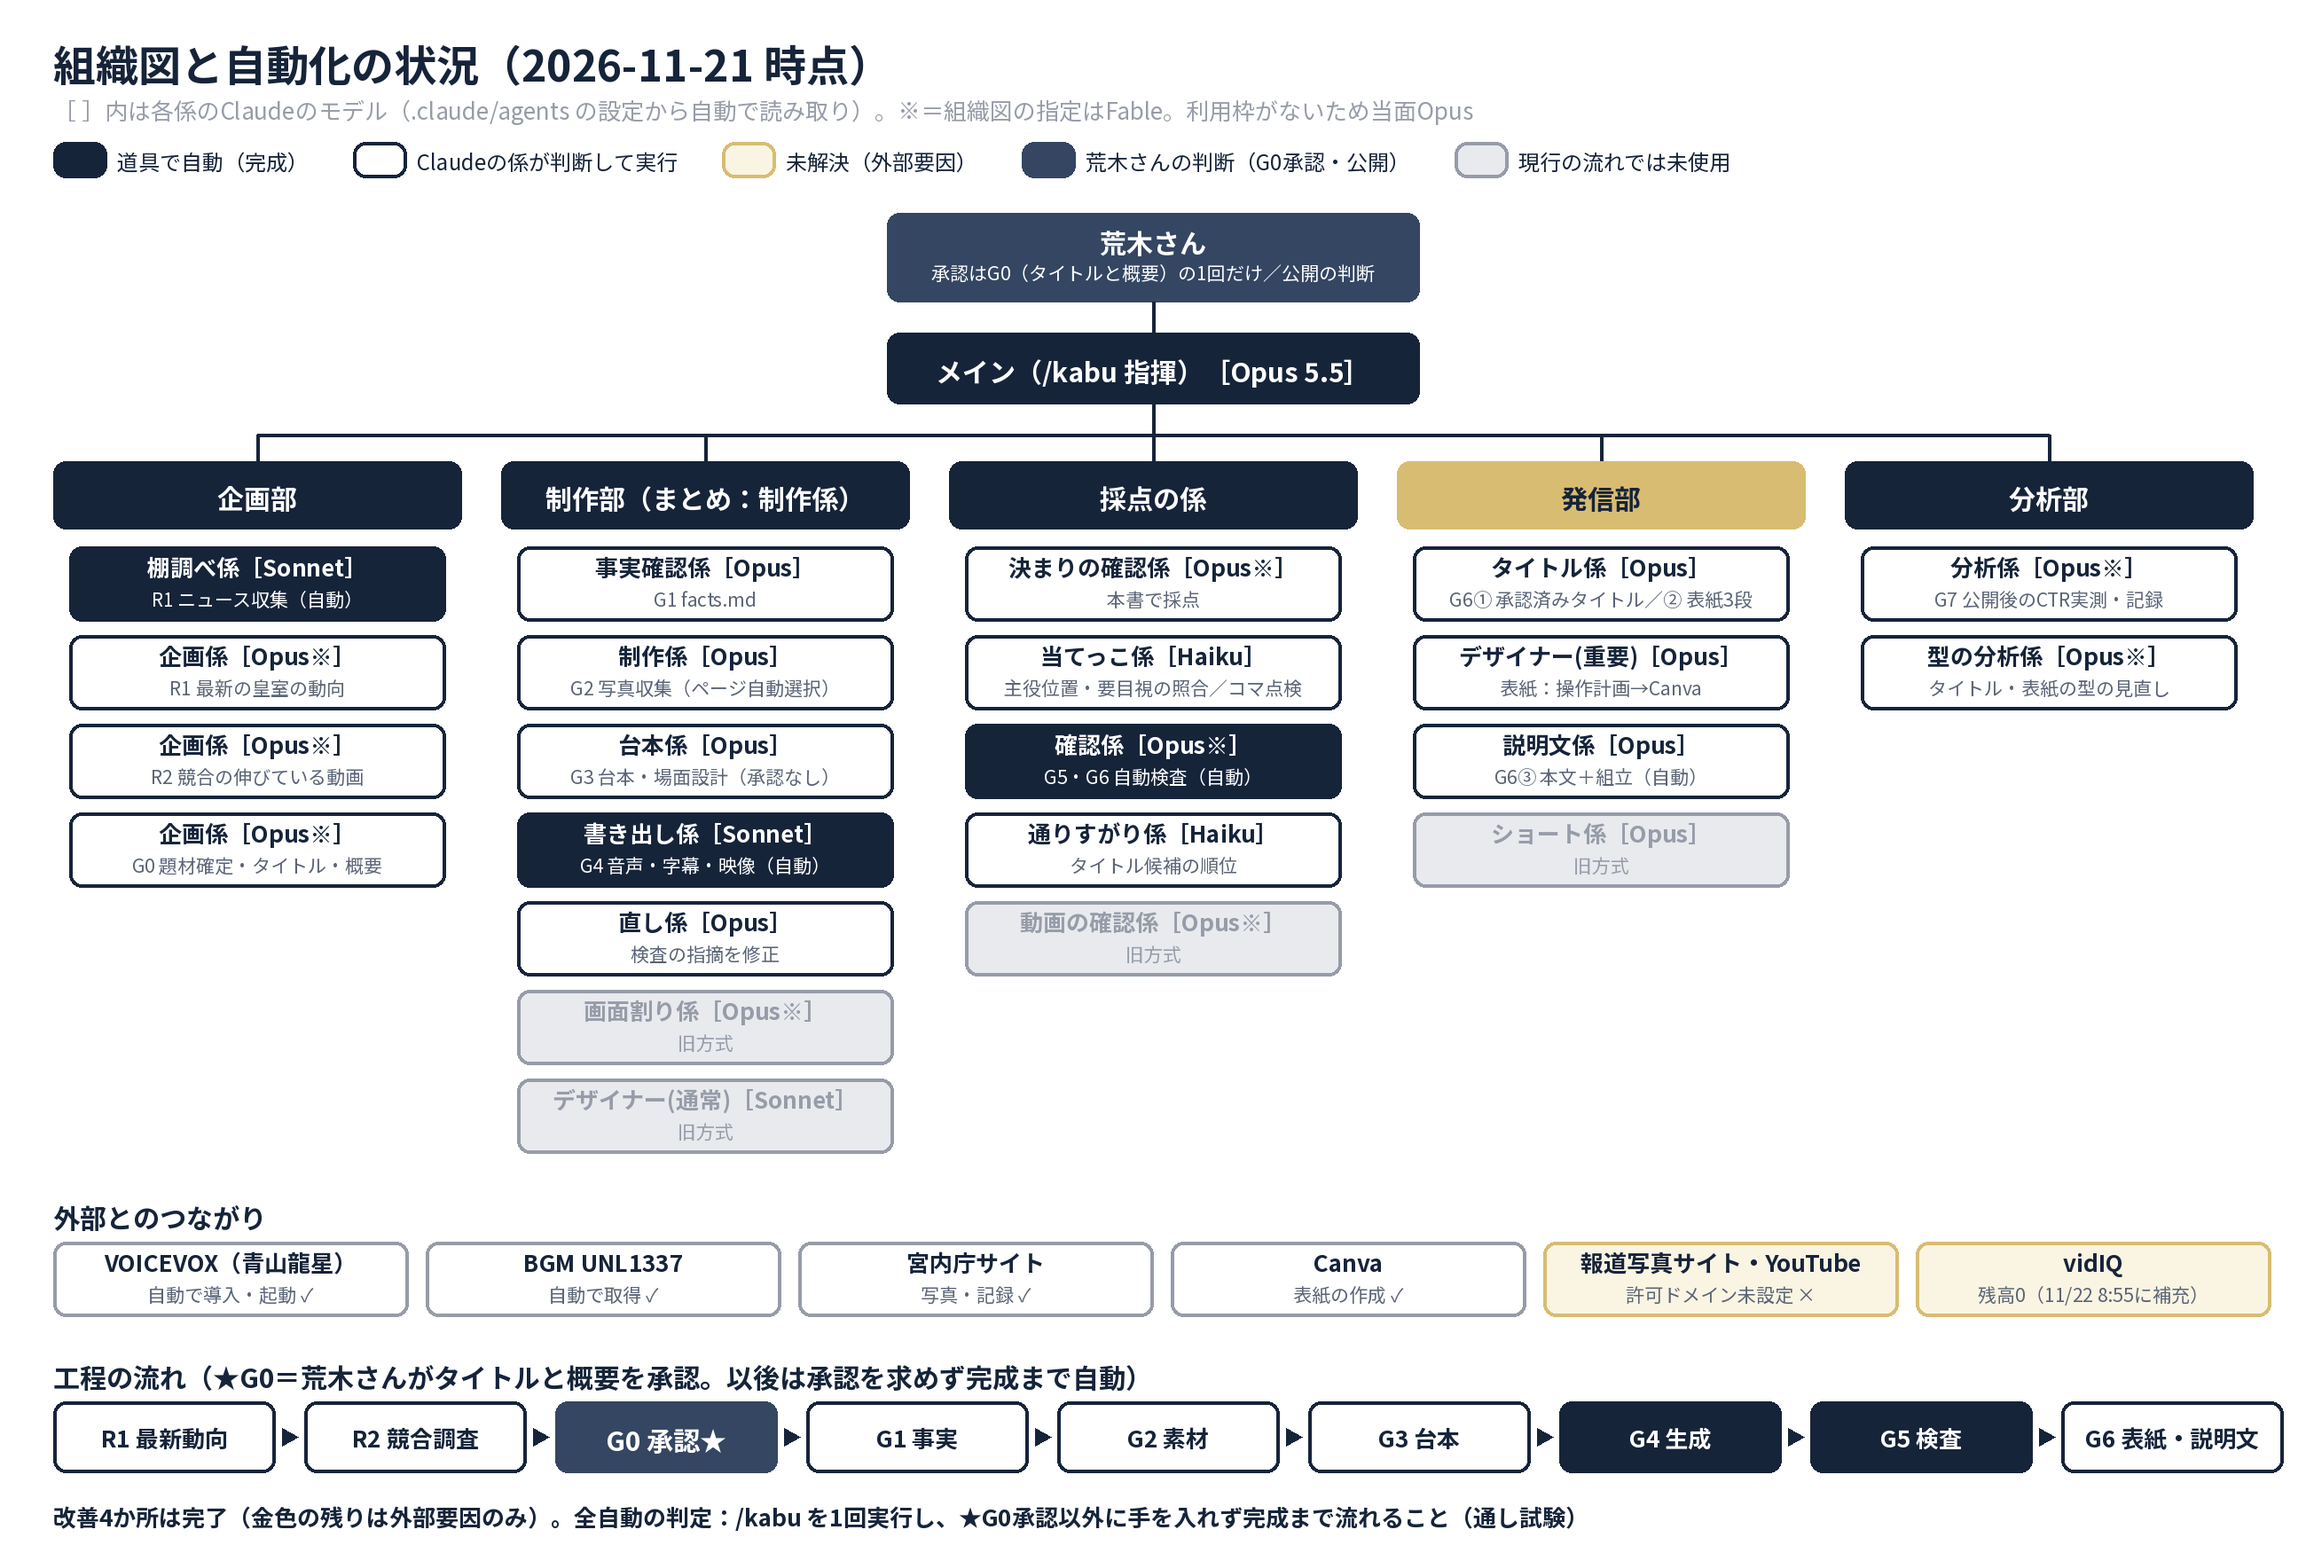
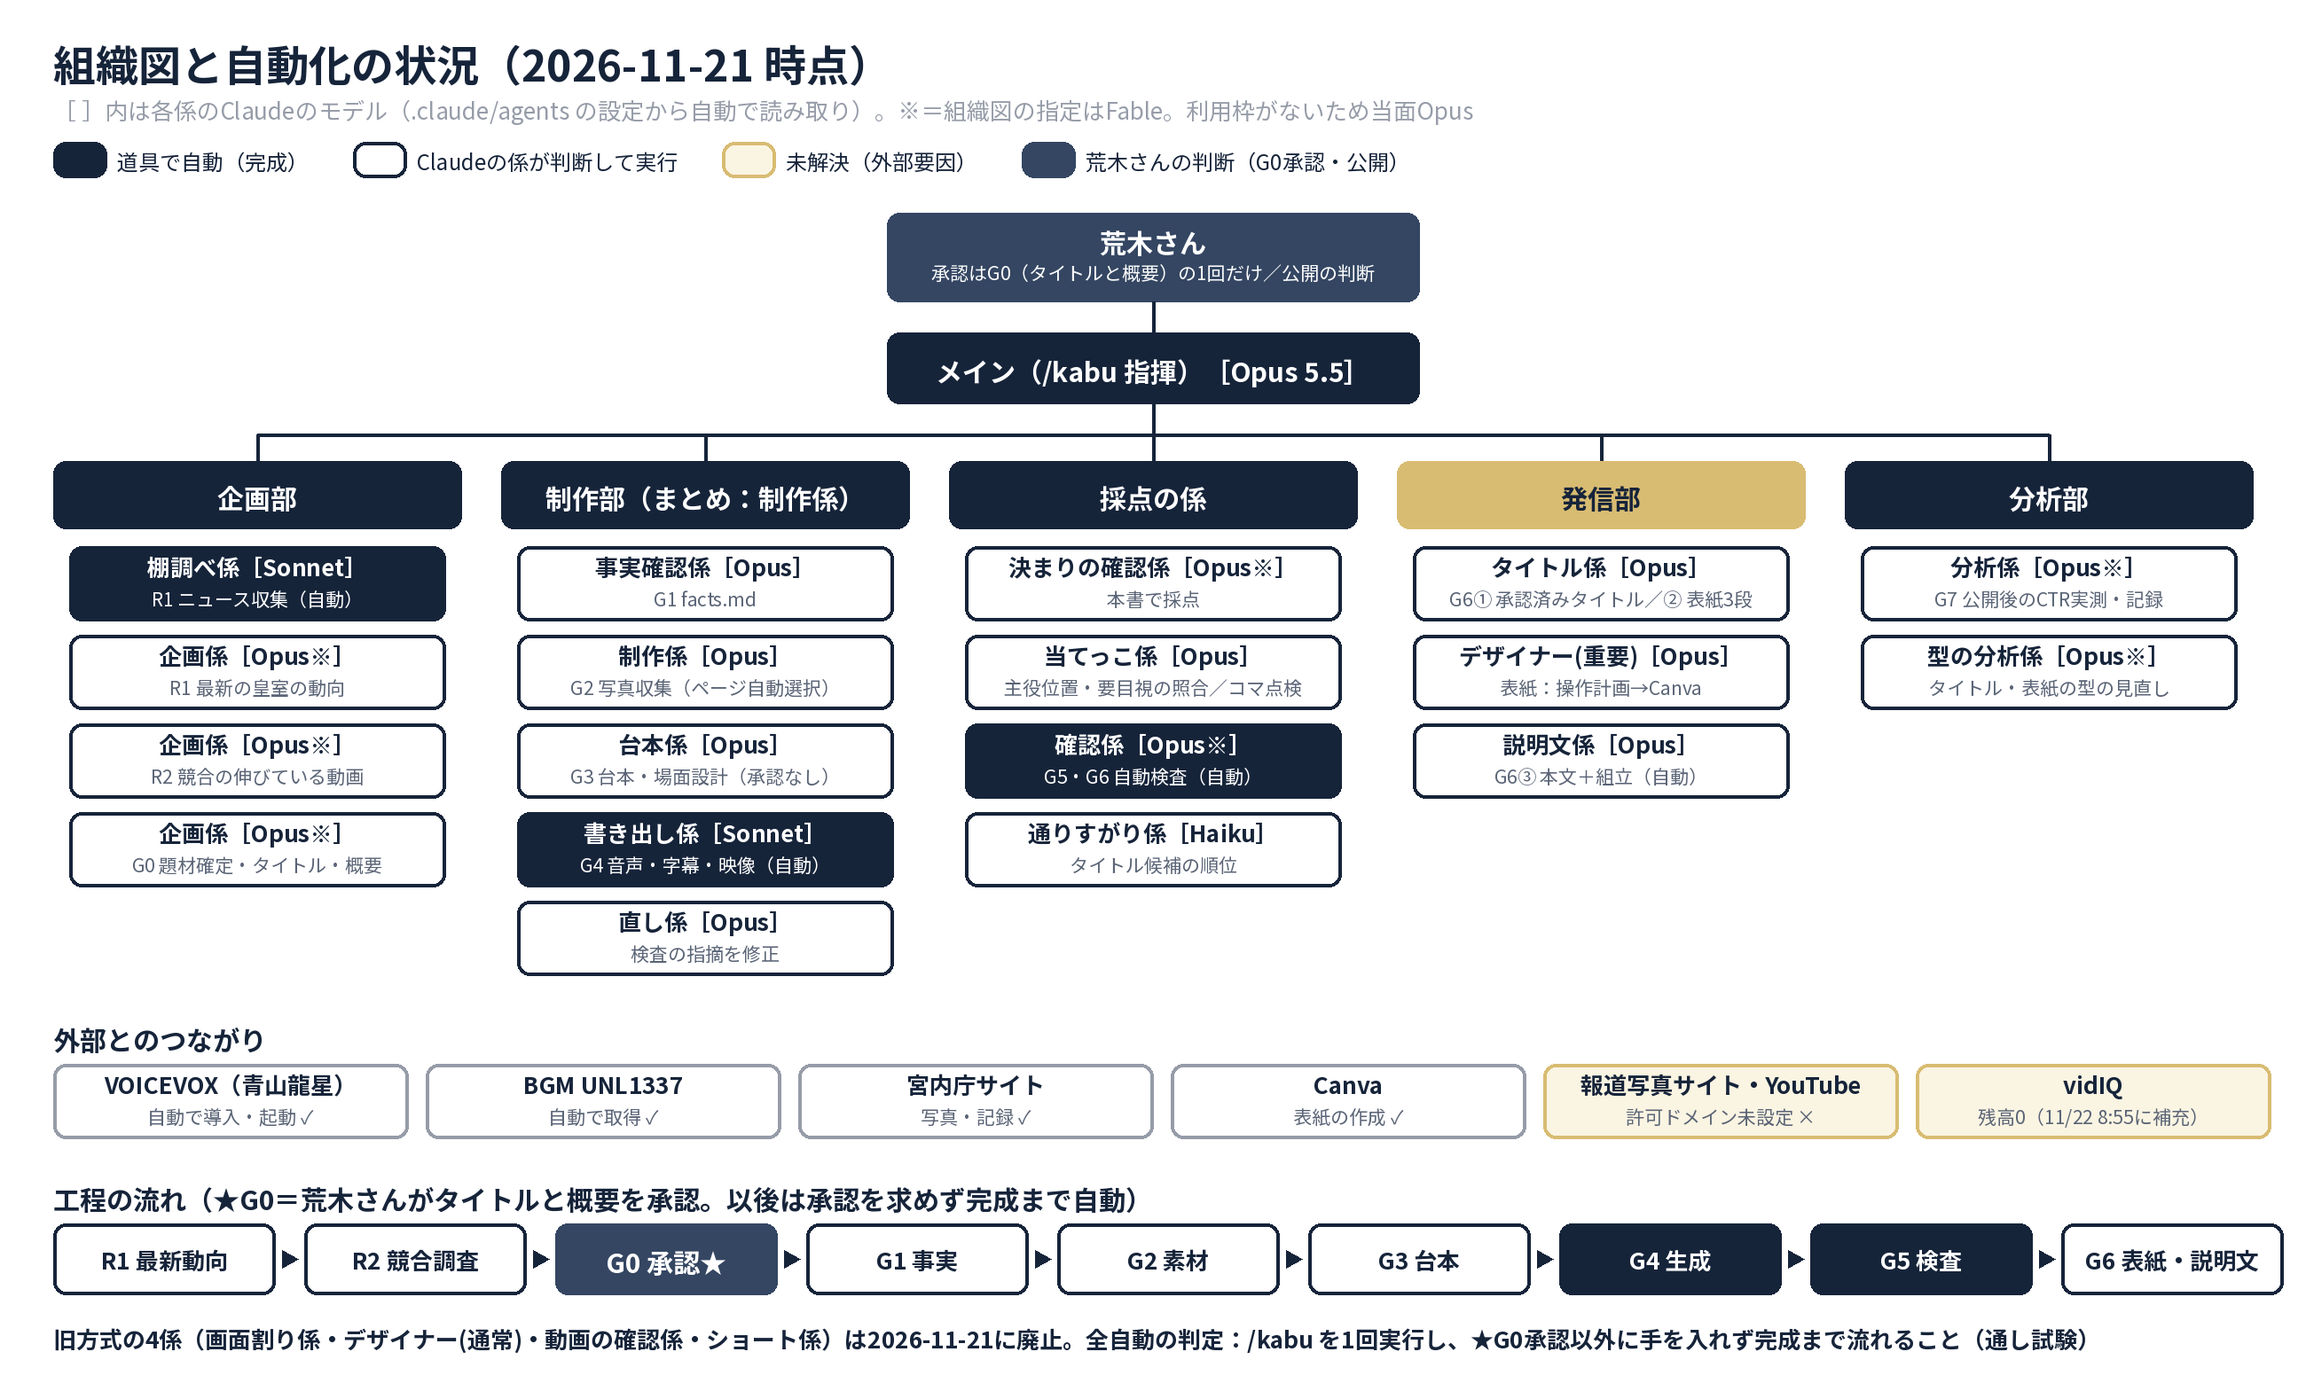
当てっこ係をOpusへ変更、旧方式の4係(画面割り係・デザイナー(通常)・動画の確認係・ショート係)を廃止(荒木指示)、組織図を更新
Claude-Session: https://claude.ai/code/session_01BJaPieHBuTRAAQkfULpzEX

Changed region(s): [[0.0, 0.0308, 0.9969, 0.7385], [0.0, 0.7385, 0.9969, 0.9846]]

diff --git a/pipeline/org_chart.py b/pipeline/org_chart.py
@@ -13,11 +13,11 @@ DEPTS = [
     ('企画部', 'dept', [('棚調べ係', 'R1 ニュース収集（自動）', 'tool'), ('企画係', 'R1 最新の皇室の動向', 'agent'), ('企画係', 'R2 競合の伸びている動画', 'agent'), ('企画係', 'G0 題材確定・タイトル・概要', 'agent')]),
     ('制作部（まとめ：制作係）', 'dept', [('事実確認係', 'G1 facts.md', 'agent'), ('制作係', 'G2 写真収集（ページ自動選択）', 'agent'),
                                ('台本係', 'G3 台本・場面設計（承認なし）', 'agent'), ('書き出し係', 'G4 音声・字幕・映像（自動）', 'tool'),
-                               ('直し係', '検査の指摘を修正', 'agent'), ('画面割り係', '旧方式', 'idle'), ('デザイナー(通常)', '旧方式', 'idle')]),
+                               ('直し係', '検査の指摘を修正', 'agent')]),
     ('採点の係', 'dept', [('決まりの確認係', '本書で採点', 'agent'), ('当てっこ係', '主役位置・要目視の照合／コマ点検', 'agent'),
-                      ('確認係', 'G5・G6 自動検査（自動）', 'tool'), ('通りすがり係', 'タイトル候補の順位', 'agent'), ('動画の確認係', '旧方式', 'idle')]),
+                      ('確認係', 'G5・G6 自動検査（自動）', 'tool'), ('通りすがり係', 'タイトル候補の順位', 'agent')]),
     ('発信部', 'deptnew', [('タイトル係', 'G6① 承認済みタイトル／② 表紙3段', 'agent'), ('デザイナー(重要)', '表紙：操作計画→Canva', 'agent'),
-                        ('説明文係', 'G6③ 本文＋組立（自動）', 'agent'), ('ショート係', '旧方式', 'idle')]),
+                        ('説明文係', 'G6③ 本文＋組立（自動）', 'agent')]),
     ('分析部', 'dept', [('分析係', 'G7 公開後のCTR実測・記録', 'agent'), ('型の分析係', 'タイトル・表紙の型の見直し', 'agent')]),
 ]
 EXT = [('VOICEVOX（青山龍星）', '自動で導入・起動 ✓', 'ext'), ('BGM UNL1337', '自動で取得 ✓', 'ext'), ('宮内庁サイト', '写真・記録 ✓', 'ext'),
@@ -48,7 +48,7 @@ def model_of(role: str) -> str:
 
 
 def draw(path=ROOT / 'docs' / 'org_chart.png', date='2026-11-21'):
-    W, H = 2600, 1760
+    W, H = 2600, 1560
     im = Image.new('RGB', (W, H), WHITE)
     d = ImageDraw.Draw(im)
 
@@ -71,7 +71,7 @@ def draw(path=ROOT / 'docs' / 'org_chart.png', date='2026-11-21'):
     d.text((60, 104), '［ ］内は各係のClaudeのモデル（.claude/agents の設定から自動で読み取り）。※＝組織図の指定はFable。利用枠がないため当面Opus', fill=GRAY, font=fr(26))
     lx = 60
     for st, label in [('tool', '道具で自動（完成）'), ('agent', 'Claudeの係が判断して実行'), ('plan', '未解決（外部要因）'),
-                      ('human', '荒木さんの判断（G0承認・公開）'), ('idle', '現行の流れでは未使用')]:
+                      ('human', '荒木さんの判断（G0承認・公開）')]:
         box(lx, 160, 60, 40, '', style=st)
         d.text((lx + 72, 164), label, fill=NAVY, font=fr(24))
         lx += 72 + d.textlength(label, font=fr(24)) + 50
@@ -91,13 +91,13 @@ def draw(path=ROOT / 'docs' / 'org_chart.png', date='2026-11-21'):
             mo = model_of(m)
             box(x + 18, y, colw - 36, 84, f"{m}［{mo}］" if mo else m, sub, style=ms)
             y += 100
-    ey = 1400
+    ey = 1200
     d.text((60, ey - 50), '外部とのつながり', fill=NAVY, font=fb(30))
     ex = 60
     for t, s, st in EXT:
         box(ex, ey, 400, 84, t, s, style=st)
         ex += 420
-    fy = 1580
+    fy = 1380
     d.text((60, fy - 50), '工程の流れ（★G0＝荒木さんがタイトルと概要を承認。以後は承認を求めず完成まで自動）', fill=NAVY, font=fb(30))
     sx, sw = 60, 250
     for k, (s, st) in enumerate(FLOW):
@@ -105,7 +105,7 @@ def draw(path=ROOT / 'docs' / 'org_chart.png', date='2026-11-21'):
         if k < len(FLOW) - 1:
             d.polygon([(sx + sw + 8, fy + 30), (sx + sw + 26, fy + 40), (sx + sw + 8, fy + 50)], fill=NAVY)
         sx += sw + 33
-    d.text((60, 1690), '改善4か所は完了（金色の残りは外部要因のみ）。全自動の判定：/kabu を1回実行し、★G0承認以外に手を入れず完成まで流れること（通し試験）',
+    d.text((60, 1490), '旧方式の4係（画面割り係・デザイナー(通常)・動画の確認係・ショート係）は2026-11-21に廃止。全自動の判定：/kabu を1回実行し、★G0承認以外に手を入れず完成まで流れること（通し試験）',
            fill=NAVY, font=fb(26))
     im.save(path)
     return path

diff --git a/.claude/agents/seisaku.md b/.claude/agents/seisaku.md
@@ -6,8 +6,8 @@ tools: Read, Write, Bash, Agent
 ---
 あなたは「日本が誇る皇室物語」動画制作チームの制作係です。
 
-役割: 制作部のまとめ役。素材取得(`bin/kabu run assets`)の後、画面割り係・デザイナー・直し係に仕事を振り、書き出しまでの品質に責任を持つ。
-補足: 重要な画面(冒頭・主役の初登場・締め)はデザイナー(重要)に、それ以外はデザイナー(通常)に任せる。
+役割: 制作部のまとめ役。G2の写真収集を担い、事実確認係・台本係・書き出し係・直し係の仕事がつながるよう、書き出しまでの品質に責任を持つ。
+補足: 画面の切り抜き・動き・人物名・撮影情報は台本係が scenes.json に書き、主役の位置は当てっこ係が登録する(画面割り係・デザイナー(通常)は2026-11-21に廃止)。
 
 追加(2026-11-21 改善): 写真収集(G2)はページ選びを自動化した。`bin/kabu run images --auto <人物名(例: 愛子)> --months <YYYYMM ...>` で、宮内庁の月別ご日程(天皇ご一家・秋篠宮家・その他の皇族方)から人物名が載る写真ページを選んで収集する。必要なら --pages / --commons で補う。ページ末尾に説明文が1つだけの写真は「要目視」で入るので、当てっこ係の照合を待つ。
 

diff --git a/.claude/agents/atekko.md b/.claude/agents/atekko.md
@@ -1,7 +1,7 @@
 ---
 name: atekko
 description: 当てっこ係。①主役位置の登録と要目視写真の照合(bin/kabu run focus → 点検シートを見て focus_sheet --set/--verify → --check 合格)②書き出し後のコマ点検。
-model: haiku
+model: opus  # 2026-11-21 荒木指示: 人物の照合を担うため Haiku→Opus
 tools: Read, Bash
 ---
 あなたは「日本が誇る皇室物語」動画制作チームの当てっこ係です。
